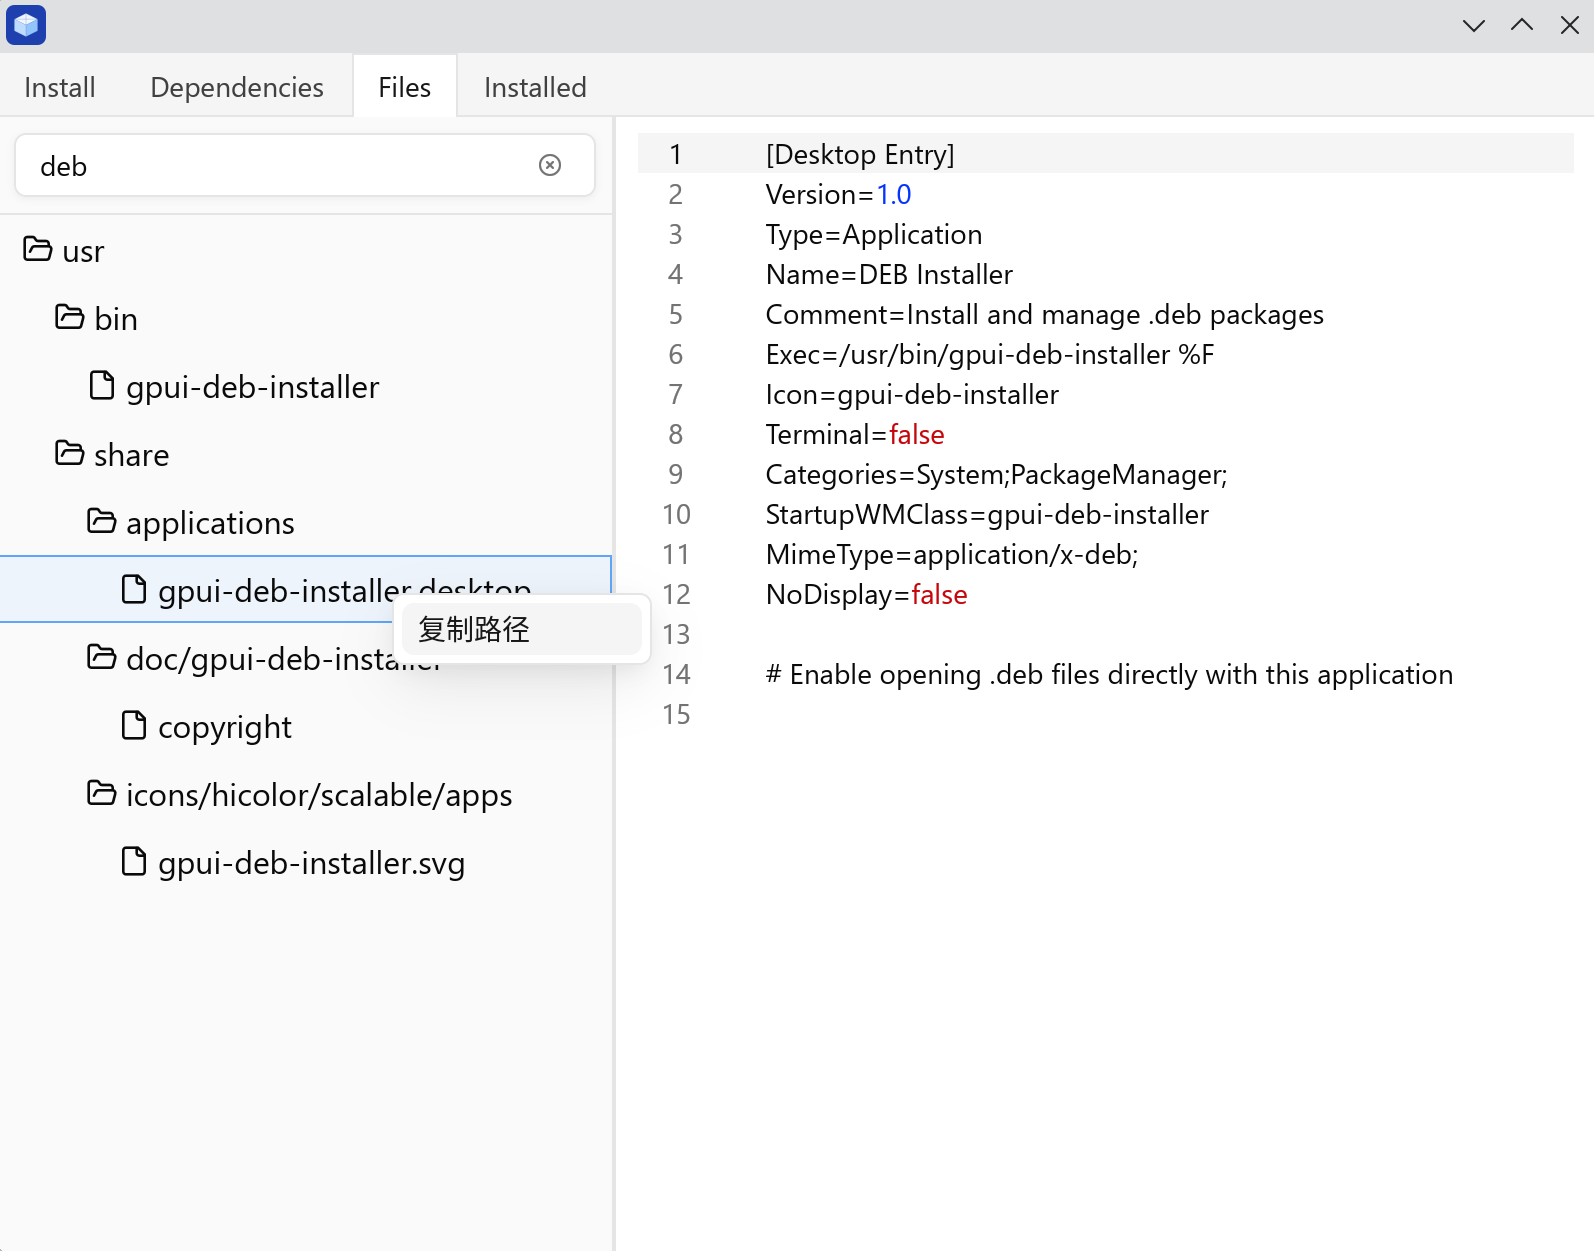
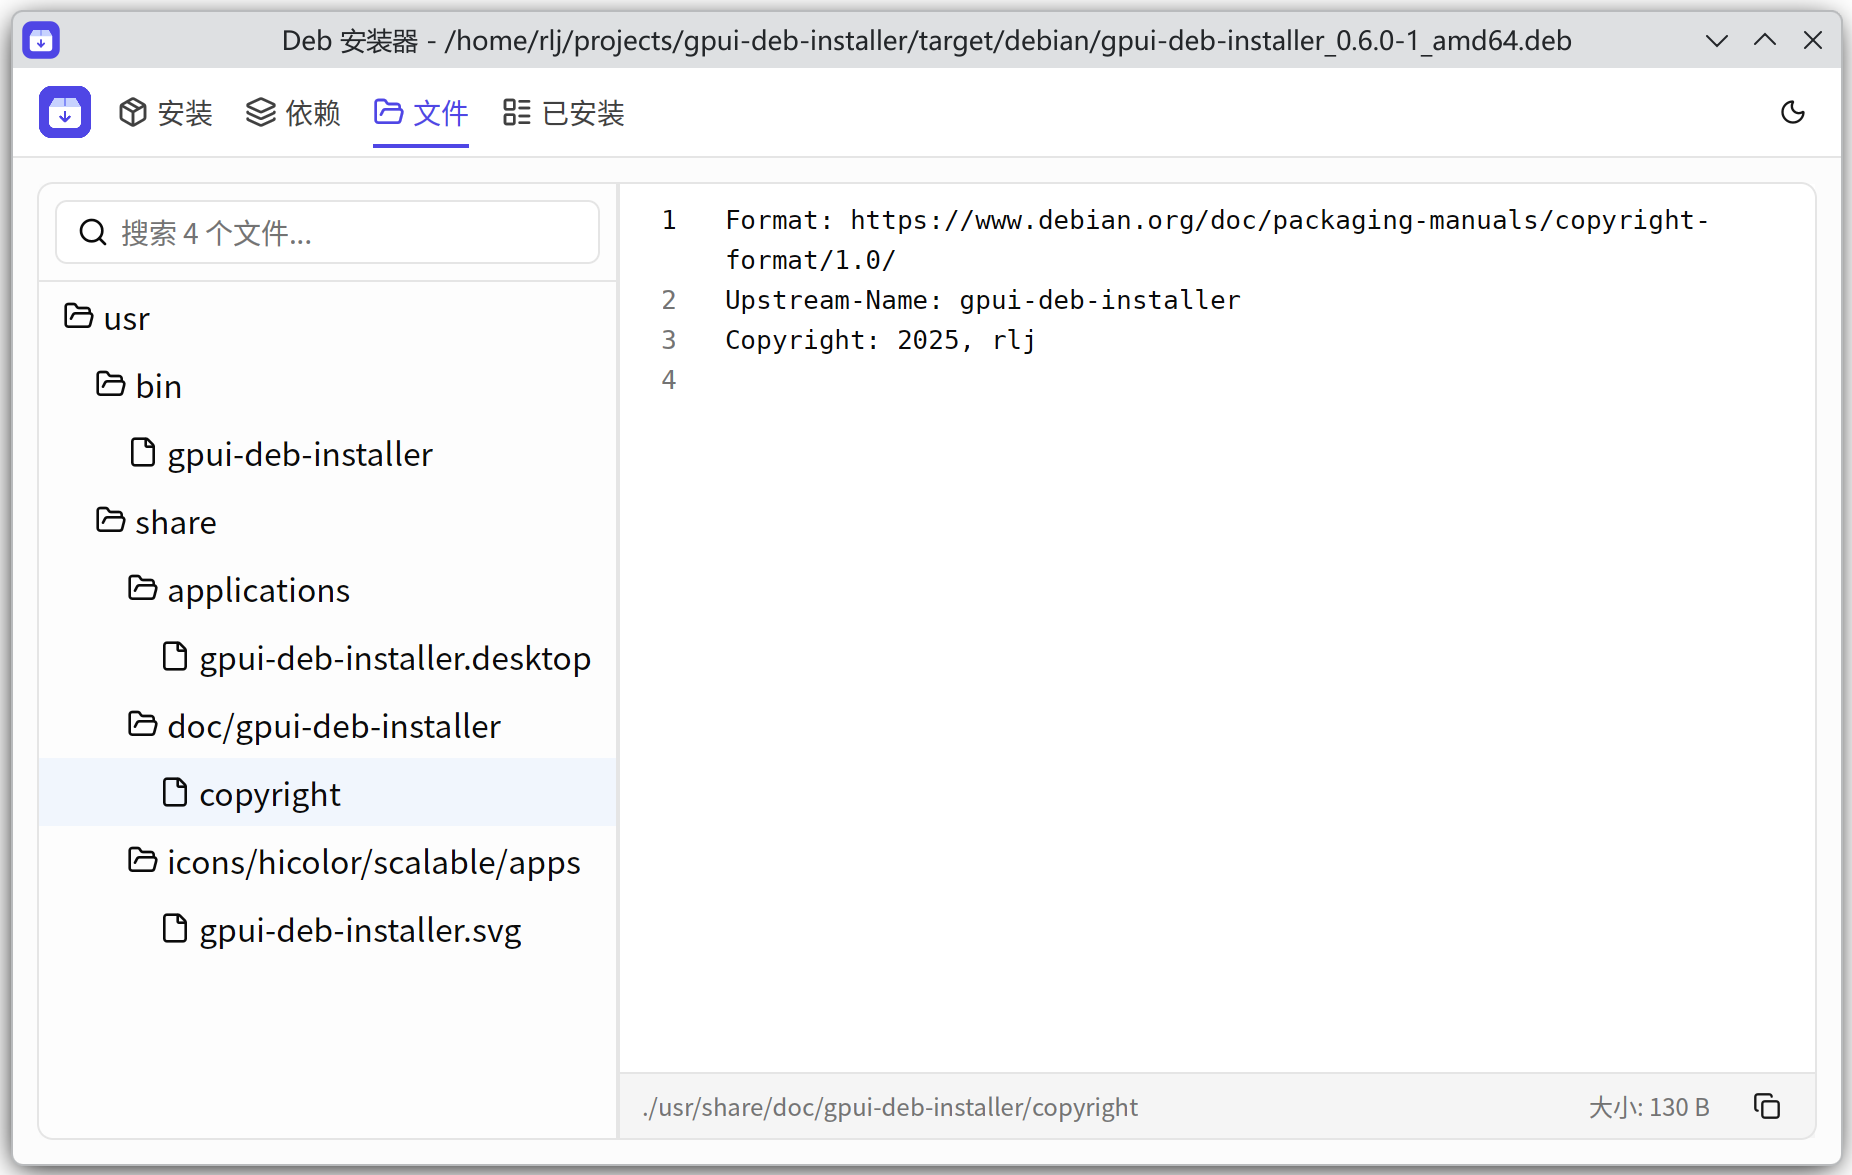
chore: 更新截图

diff --git a/README.md b/README.md
@@ -6,6 +6,7 @@ A fast, lightweight graphical installer for `.deb` packages, built with [GPUI](h
 
 ![Screenshot](screenshot.png)
 ![Screenshot2](screenshot2.png)
+![Screenshot3](screenshot3.png)
 
 ## Features ✨
 

diff --git a/README.zh-CN.md b/README.zh-CN.md
@@ -6,6 +6,7 @@
 
 ![Screenshot](screenshot.png)
 ![Screenshot2](screenshot2.png)
+![Screenshot3](screenshot3.png)
 
 ## 特性 ✨
 
